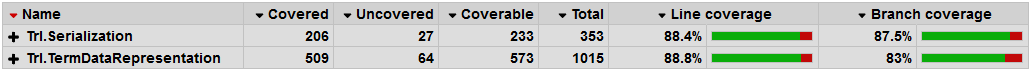
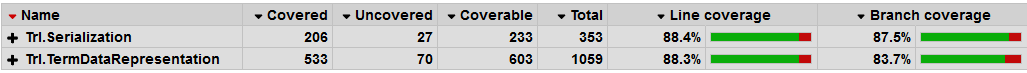
Add rewrite rule parser

diff --git a/Trl.TermDataRepresentation/Parser/TrlParser.cs b/Trl.TermDataRepresentation/Parser/TrlParser.cs
@@ -37,8 +37,9 @@ namespace Trl.TermDataRepresentation.Parser
                 _pegFacade.Token(TokenNames.Colon, new Regex(@":", RegexOptions.Compiled)),
                 _pegFacade.Token(TokenNames.OpenRoundBracket, new Regex(@"\(", RegexOptions.Compiled)),
                 _pegFacade.Token(TokenNames.CloseRoundBracket, new Regex(@"\)", RegexOptions.Compiled)),
+                _pegFacade.Token(TokenNames.Arrow, new Regex(@"\=\>", RegexOptions.Compiled)),
                 _pegFacade.Token(TokenNames.OpenAngleBracket, new Regex(@"\<", RegexOptions.Compiled)),
-                _pegFacade.Token(TokenNames.CloseAngleBracket, new Regex(@"\>", RegexOptions.Compiled))
+                _pegFacade.Token(TokenNames.CloseAngleBracket, new Regex(@"\>", RegexOptions.Compiled))                
             });
         }
 
@@ -61,8 +62,7 @@ namespace Trl.TermDataRepresentation.Parser
             _pegFacade.DefaultSemanticActions.SetTerminalAction(TokenNames.Number,
                 (matchedTokens, _, pegSpec) => new NumericValue { Value = matchedTokens.GetMatchedString() });
 
-            _pegFacade.DefaultSemanticActions.SetNonTerminalAction(ParseRuleNames.Statement,
-                (_, subResults, pegSpec) => subResults.First());
+            _pegFacade.DefaultSemanticActions.SetNonTerminalAction(ParseRuleNames.Statement, (_, subResults, pegSpec) => subResults.First());
 
             _pegFacade.DefaultSemanticActions.SetNonTerminalAction(ParseRuleNames.Term,
                 (_, subResults, pegSpec) => subResults.First());
@@ -71,9 +71,22 @@ namespace Trl.TermDataRepresentation.Parser
                 (_, subResults, pegSpec) =>
                 {
                     var oneOrMore = subResults.Cast<GenericResult>().Single();
-                    StatementList statementList = new StatementList { Statements = new List<Statement>() };
+                    StatementList statementList = new StatementList 
+                    { 
+                        Statements = new List<TermStatement>(),
+                        RewriteRules = new List<RewriteRule>()
+                    };
                     foreach (var nestedBrackets in oneOrMore.SubResults.Cast<GenericResult>())
                     {
+                        // Rewrite rule statements
+                        var rewriteRule = nestedBrackets.SubResults[0] as RewriteRule;
+                        if (rewriteRule != null)
+                        {
+                            statementList.RewriteRules.Add(rewriteRule);
+                            continue;
+                        }
+
+                        // Term statements
                         var sequence = (GenericResult)nestedBrackets.SubResults[0];
                         if (sequence != null) // empty statement generated by ";;;" type input
                         {
@@ -81,7 +94,7 @@ namespace Trl.TermDataRepresentation.Parser
                             var term = sequence.SubResults.Skip(1).First();
                             if (term != null) // optional case: where we have a string of semi-colons
                             {
-                                statementList.Statements.Add(new Statement
+                                statementList.Statements.Add(new TermStatement
                                 {
                                     Label = (Label)label,
                                     Term = (ITrlTerm)term
@@ -185,19 +198,29 @@ namespace Trl.TermDataRepresentation.Parser
                 }
                 return term;
             });
+
+            _pegFacade.DefaultSemanticActions.SetNonTerminalAction(ParseRuleNames.RewriteRule, (matchTokens, subResults, matchedSpec) =>
+            {
+                return new RewriteRule
+                {
+                    MatchTerm = (ITrlTerm)subResults.First().GetSubResults().First(),
+                    SubstituteTerm = (ITrlTerm)subResults.First().GetSubResults()[1].GetSubResults()[1]
+                };
+            });
         }
 
         private void CreateParser()
         {
             const string grammer = @"
 Start => (Statement? [SemiColon])+;
-Statement => Label? Term;
+Statement => RewriteRule | Label? Term;
 Term => NonACTerm | [Identifier] | [String] | [Number] | TermList;
 Label => [Identifier] ([Comma] [Identifier])* [Colon];
 TermList => [OpenRoundBracket] CommaSeperatedTerms [CloseRoundBracket];
 CommaSeperatedTerms => (Term ([Comma] Term)*)?;
 NonACTerm => [Identifier] ClassMemberMapping? [OpenRoundBracket] CommaSeperatedTerms [CloseRoundBracket];
 ClassMemberMapping => [OpenAngleBracket] ([Identifier] ([Comma] [Identifier])*)? [CloseAngleBracket];
+RewriteRule => Term [Arrow] Term;
 ";
             _parser = _pegFacade.Parser(ParseRuleNames.Start, _pegFacade.ParserGenerator.GetParsingRules(grammer));
         }

diff --git a/Trl.TermDataRepresentation/Database/TermDatabase.cs b/Trl.TermDataRepresentation/Database/TermDatabase.cs
@@ -39,7 +39,7 @@ namespace Trl.TermDataRepresentation.Database
         /// <summary>
         /// Saves a statement.
         /// </summary>
-        public void SaveStatement(Statement statement)
+        public void SaveStatement(TermStatement statement)
         {
             ulong termIdentifier = SaveTerm(statement.Term).TermIdentifier.Value;
             var term = _termMapper.ReverseMap(termIdentifier);
@@ -86,7 +86,7 @@ namespace Trl.TermDataRepresentation.Database
 
             var returnStatements = new StatementList
             {
-                Statements = new List<Statement>()
+                Statements = new List<TermStatement>()
             };
 
             foreach (var termId in associatedTermIds)
@@ -103,7 +103,7 @@ namespace Trl.TermDataRepresentation.Database
                         Name = _stringMapper.ReverseMap(labelId)
                     });
                 }
-                returnStatements.Statements.Add(new Statement
+                returnStatements.Statements.Add(new TermStatement
                 {
                     Label = returnLabel,
                     Term = ReadTerm(termId)

diff --git a/Trl.TermDataRepresentation.Tests/TrlParserTests.cs b/Trl.TermDataRepresentation.Tests/TrlParserTests.cs
@@ -178,5 +178,22 @@ namespace Trl.TermDataRepresentation.Tests
             Assert.False(result.Succeed);
             Assert.Single(result.Errors.Select(err => err == Errors.Syntax));
         }
+
+        [InlineData("abc", "def")]
+        [InlineData("t1(a)", "t1(1)")]
+        [InlineData("v<x,y>(1,2)", "v<x,y>(3,5)")]
+        [InlineData("123", "456")]
+        [InlineData("(\"a\", \"b\")", "(1,2)")]
+        [Theory]
+        public void ShouldParseRewriteRule(string from, string to)
+        {
+            // Act
+            var result = _parser.ParseToAst($"{from} => {to};");
+
+            // Assert
+            Assert.True(result.Succeed);            
+            Assert.True(StringComparer.InvariantCulture.Equals(from, result.Statements.RewriteRules.Single().MatchTerm.ToSourceCode()));
+            Assert.True(StringComparer.InvariantCulture.Equals(to, result.Statements.RewriteRules.Single().SubstituteTerm.ToSourceCode()));
+        }
     }
 }

diff --git a/Trl.TermDataRepresentation/Parser/AST/RewriteRule.cs b/Trl.TermDataRepresentation/Parser/AST/RewriteRule.cs
@@ -1,0 +1,20 @@
+using System.IO;
+using Trl.PegParser.Grammer.Semantics;
+
+namespace Trl.TermDataRepresentation.Parser.AST
+{
+    public class RewriteRule : GenericPassthroughResult<ITrlParseResult, TokenNames>, ITrlParseResult
+    {
+        public ITrlTerm MatchTerm { get; set; }
+
+        public ITrlTerm SubstituteTerm { get; set; }
+
+        public void WriteToStream(StreamWriter outputStream)
+        {
+            MatchTerm.WriteToStream(outputStream);
+            outputStream.Write(" => ");
+            SubstituteTerm.WriteToStream(outputStream);
+            outputStream.Write(";");
+        }
+    }
+}

diff --git a/Trl.TermDataRepresentation/Parser/AST/StatementList.cs b/Trl.TermDataRepresentation/Parser/AST/StatementList.cs
@@ -6,7 +6,9 @@ namespace Trl.TermDataRepresentation.Parser.AST
 {
     public class StatementList : ITrlParseResult
     {
-        public List<Statement> Statements { get; set; }
+        public List<TermStatement> Statements { get; set; }
+
+        public List<RewriteRule> RewriteRules { get; set; }
 
         public void WriteToStream(StreamWriter outputStream)
         {

diff --git a/Trl.TermDataRepresentation.Tests/TermDatabaseTests.cs b/Trl.TermDataRepresentation.Tests/TermDatabaseTests.cs
@@ -18,7 +18,7 @@ namespace Trl.TermDataRepresentation.Tests
             _parser = new TrlParser();
         }
 
-        private Statement ParseStatement(string input)
+        private TermStatement ParseStatement(string input)
         {
             var parseResult = _parser.ParseToAst(input);
             if (!parseResult.Succeed)

diff --git a/Trl.TermDataRepresentation/Parser/AST/TermStatement.cs b/Trl.TermDataRepresentation/Parser/AST/TermStatement.cs
@@ -1,9 +1,8 @@
-using System.Collections.Generic;
-using System.IO;
+using System.IO;
 
 namespace Trl.TermDataRepresentation.Parser.AST
 {
-    public class Statement : ITrlParseResult
+    public class TermStatement : ITrlParseResult
     {
         /// <summary>
         /// Labels used to externally identify term.

diff --git a/Trl.Serialization/Translator/ObjectToAstTranslator.cs b/Trl.Serialization/Translator/ObjectToAstTranslator.cs
@@ -17,7 +17,7 @@ namespace Trl.Serialization.Translator
         {
             ITrlParseResult expression = BuildAstForObject(inputObject);
 
-            return new Statement
+            return new TermStatement
             {
                 Term = (ITrlTerm)expression,
                 Label = new Label

diff --git a/Trl.TermDataRepresentation/Parser/ParseRuleNames.cs b/Trl.TermDataRepresentation/Parser/ParseRuleNames.cs
@@ -12,6 +12,7 @@
         Term,
         Label,
         ClassMemberMapping,
-        NonACTerm
+        NonACTerm,
+        RewriteRule
     }
 }

diff --git a/Trl.TermDataRepresentation/Parser/TokenNames.cs b/Trl.TermDataRepresentation/Parser/TokenNames.cs
@@ -15,6 +15,7 @@
         Dot,
         Whitespace,
         SemiColon,
-        Colon
+        Colon,
+        Arrow
     }
 }
